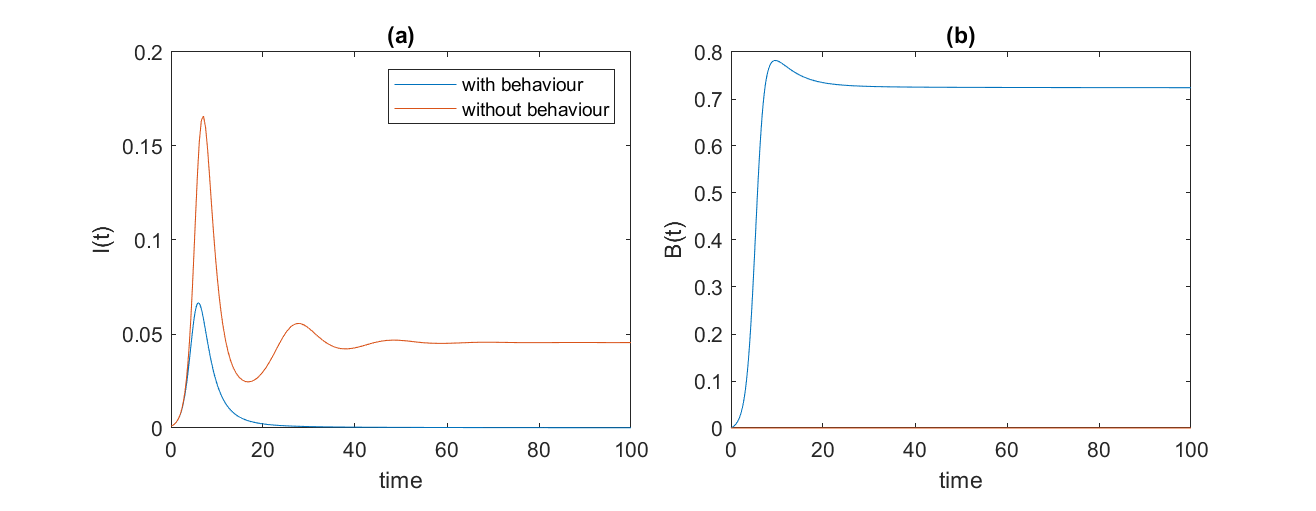
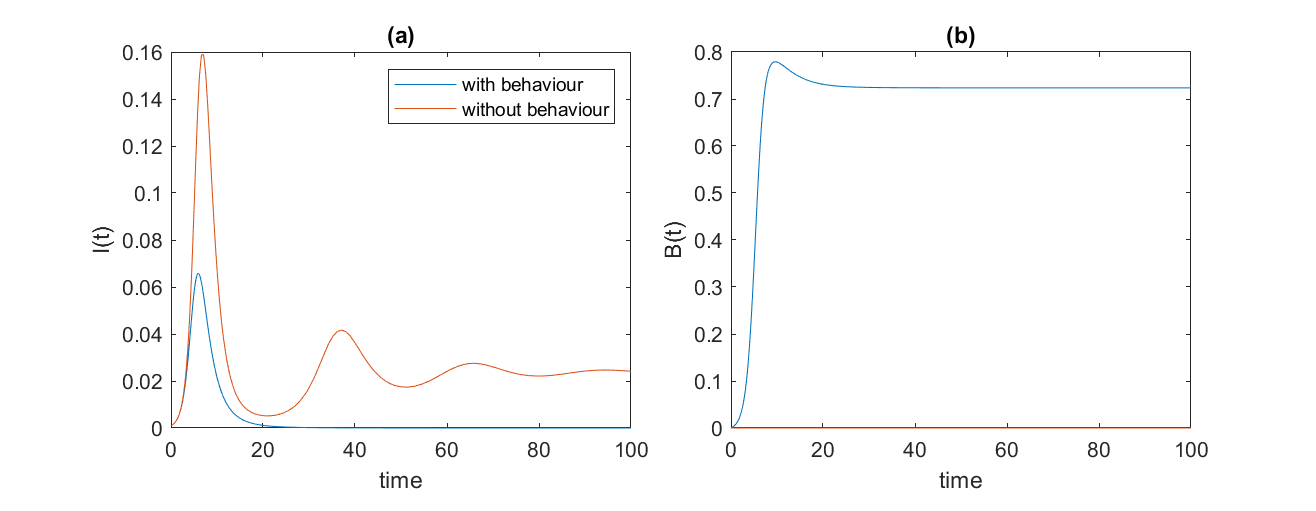
Parameter update

diff --git a/runSIRS.m b/runSIRS.m
@@ -14,7 +14,7 @@ par.Tau = 5 * par.Alpha;
 par.Beta = 2 * par.Gamma; 
 par.qs = 0;
 par.qc = 0.7;
-par.w = 0.1;
+par.w = 0.05;
 
 % Initial conditions
 i0 = 0.001;
